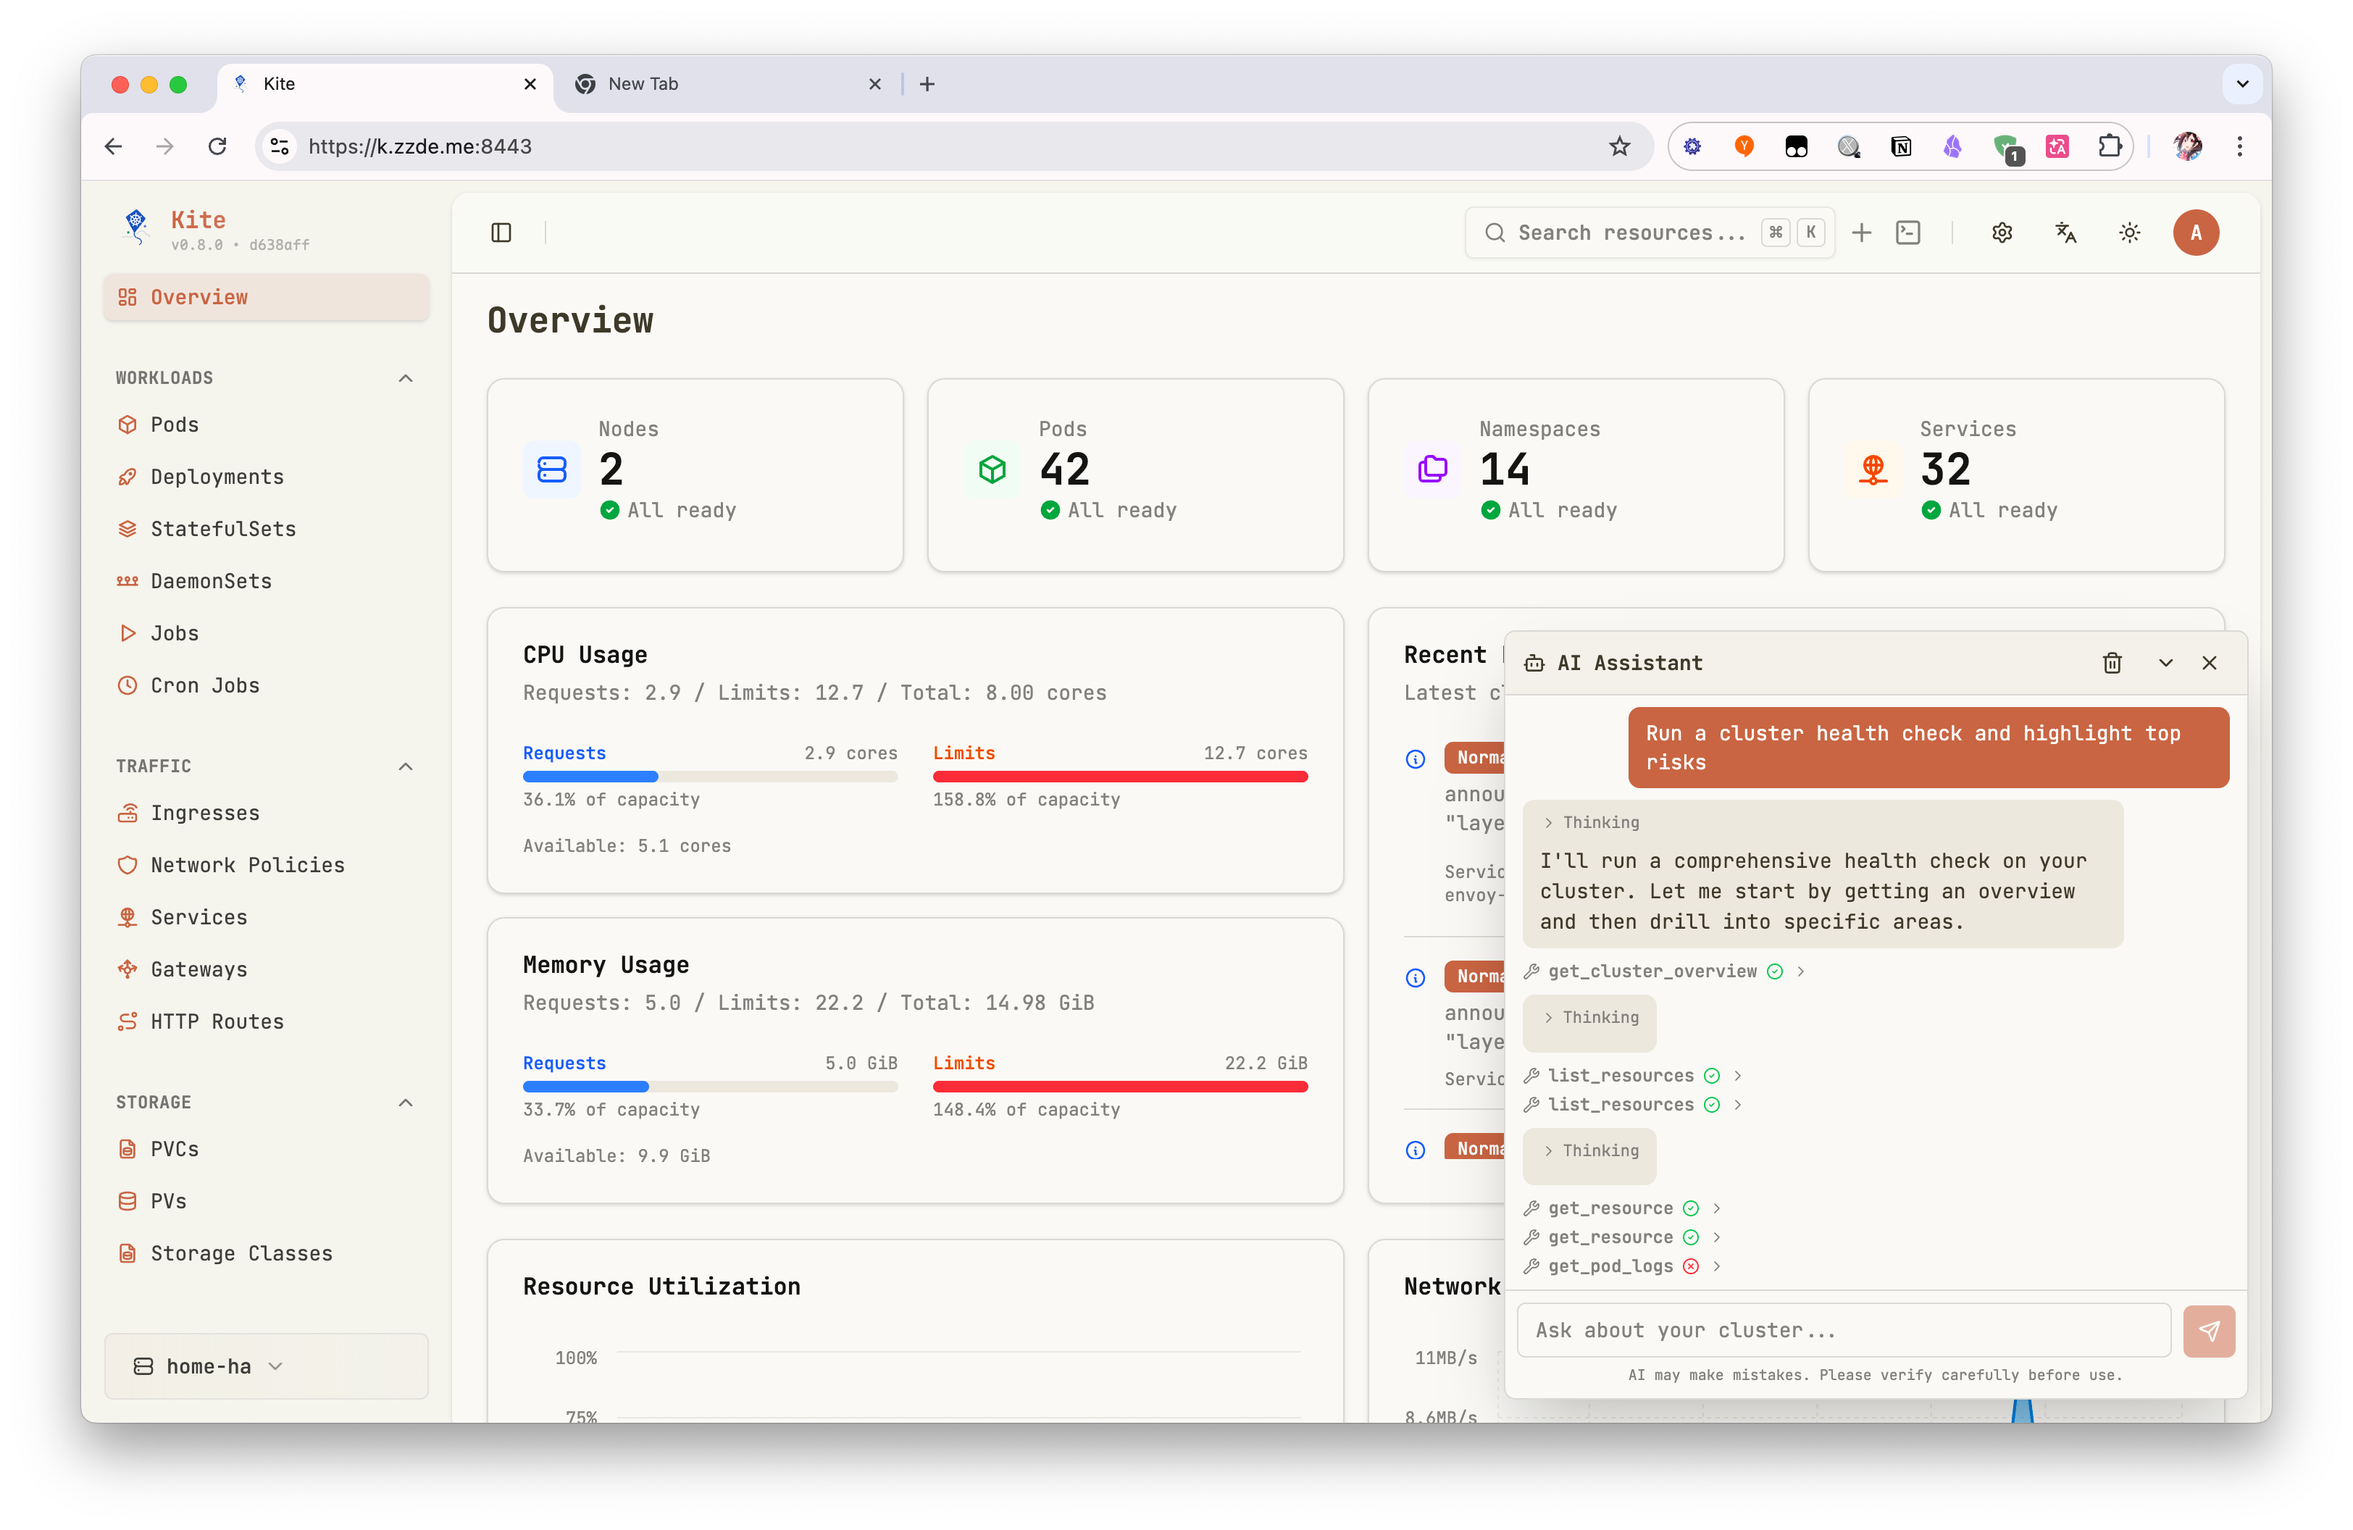
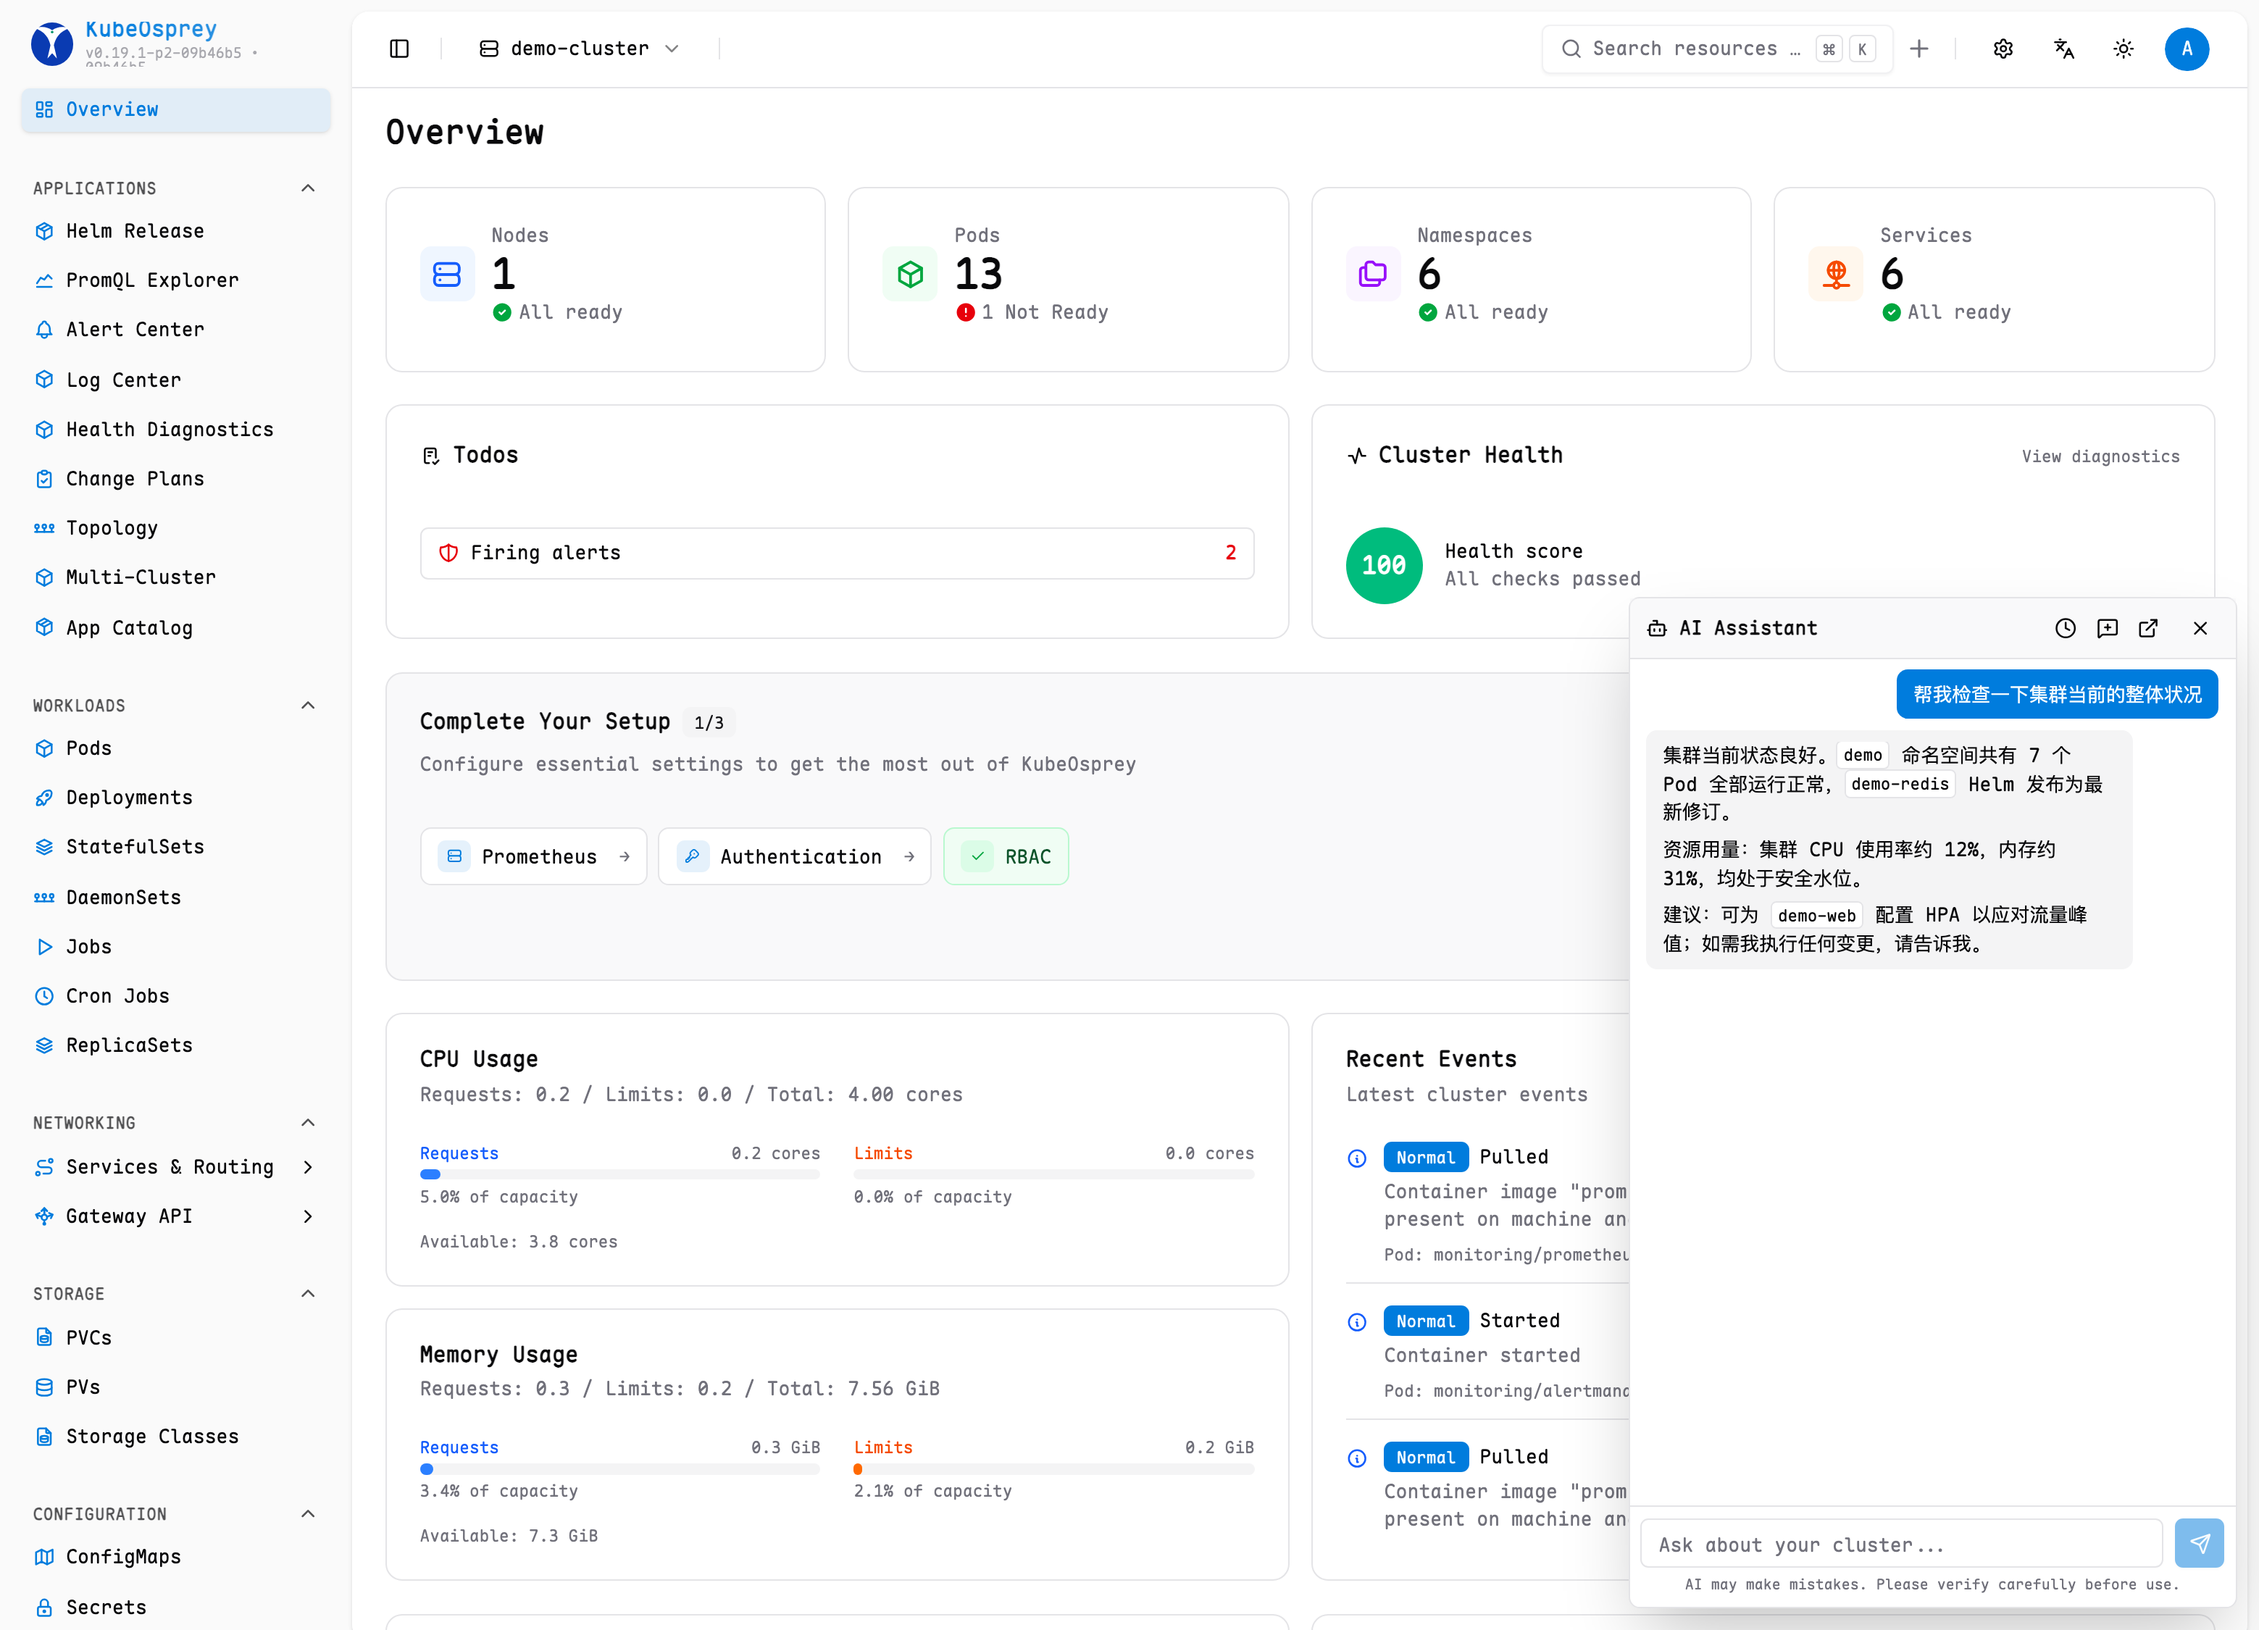
docs: reshoot all product screenshots against kube-osprey branding
Re-captured all 32 screenshots on a live demo cluster (demo-*
workloads, demo-cluster, Prometheus/Alertmanager with sample alerts,
demo-redis Helm release, mock-LLM AI conversations). Removes the old
'Kite UI' menu-bar branding and kite-named demo resources. Screenshots
move to docs/public/screenshots so markdown references resolve (the
What-is hero image 404'd since launch); home component now references
the new PNGs.

diff --git a/docs/.vitepress/theme/components/KubeOspreyHome.vue b/docs/.vitepress/theme/components/KubeOspreyHome.vue
@@ -103,7 +103,7 @@ const content = {
         title: "The full story behind every resource.",
         description:
           "Inspect status, configuration, events, conditions, and related workloads in one place. Move from a symptom to the context you need without jumping between tools.",
-        image: "/screenshots/detail.webp",
+        image: "/screenshots/deployment-detail.png",
         imageAlt:
           "Kite Kubernetes resource detail page showing workload status, pods, events, related resources, labels, and configuration",
         imageWidth: 3118,
@@ -116,7 +116,7 @@ const content = {
         title: "Manage Helm without leaving the workspace.",
         description:
           "Browse charts, manage repositories, and install, upgrade, or review releases alongside the Kubernetes resources they create.",
-        image: "/screenshots/helm.webp",
+        image: "/screenshots/helm.png",
         imageAlt:
           "Kite Helm release page showing deployment status, related resources, release history, and configuration",
         imageWidth: 3118,
@@ -129,7 +129,7 @@ const content = {
         title: "Every sensitive action, accounted for.",
         description:
           "Keep access governed with role-based permissions and a clear audit trail of user activity and resource changes across your clusters.",
-        image: "/screenshots/audit.webp",
+        image: "/screenshots/audit.png",
         imageAlt:
           "Kite audit log showing operators, Kubernetes resource changes, clusters, status, and reviewable diffs",
         imageWidth: 3118,
@@ -221,7 +221,7 @@ const content = {
         title: "看清每一个资源的完整上下文。",
         description:
           "在同一处查看状态、配置、事件、条件和相关工作负载，从异常现象直接抵达排障所需的信息。",
-        image: "/screenshots/detail.webp",
+        image: "/screenshots/deployment-detail.png",
         imageAlt: "KubeOsprey Kubernetes 资源详情页展示状态、Pod、事件、关联资源、标签和配置",
         imageWidth: 3118,
         imageHeight: 2250,
@@ -233,7 +233,7 @@ const content = {
         title: "无需离开工作空间即可管理 Helm。",
         description:
           "浏览 Chart、管理仓库，并在其创建的 Kubernetes 资源旁完成 Release 的安装、升级与检查。",
-        image: "/screenshots/helm.webp",
+        image: "/screenshots/helm.png",
         imageAlt: "KubeOsprey Helm Release 页面展示部署状态、关联资源、发布历史和配置",
         imageWidth: 3118,
         imageHeight: 2250,
@@ -245,7 +245,7 @@ const content = {
         title: "每一次敏感操作都有据可查。",
         description:
           "通过基于角色的权限和清晰的审计记录，管理用户访问与跨集群资源变更。",
-        image: "/screenshots/audit.webp",
+        image: "/screenshots/audit.png",
         imageAlt: "KubeOsprey 审计日志展示操作用户、Kubernetes 资源变更、集群、状态和差异",
         imageWidth: 3118,
         imageHeight: 2250,
@@ -394,7 +394,7 @@ const copy = computed(() =>
 
         <div class="product-media">
           <img
-            src="/screenshots/overview2.webp"
+            src="/screenshots/overview2.png"
             :alt="copy.proof.imageAlt"
             width="3172"
             height="2334"
